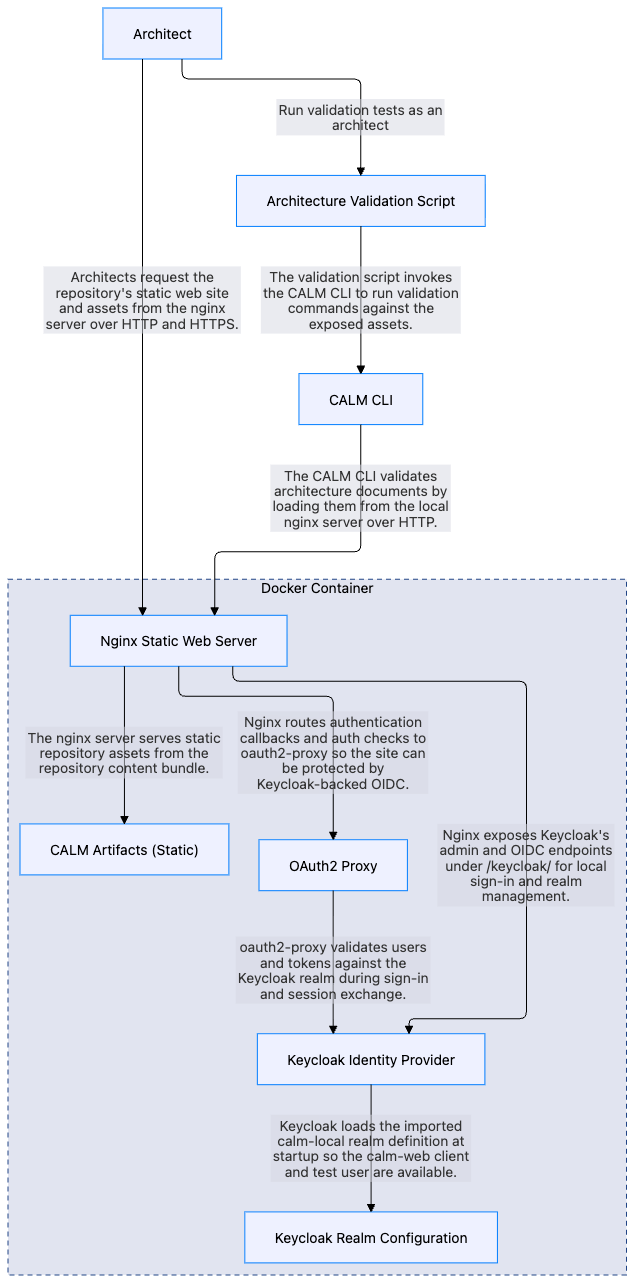
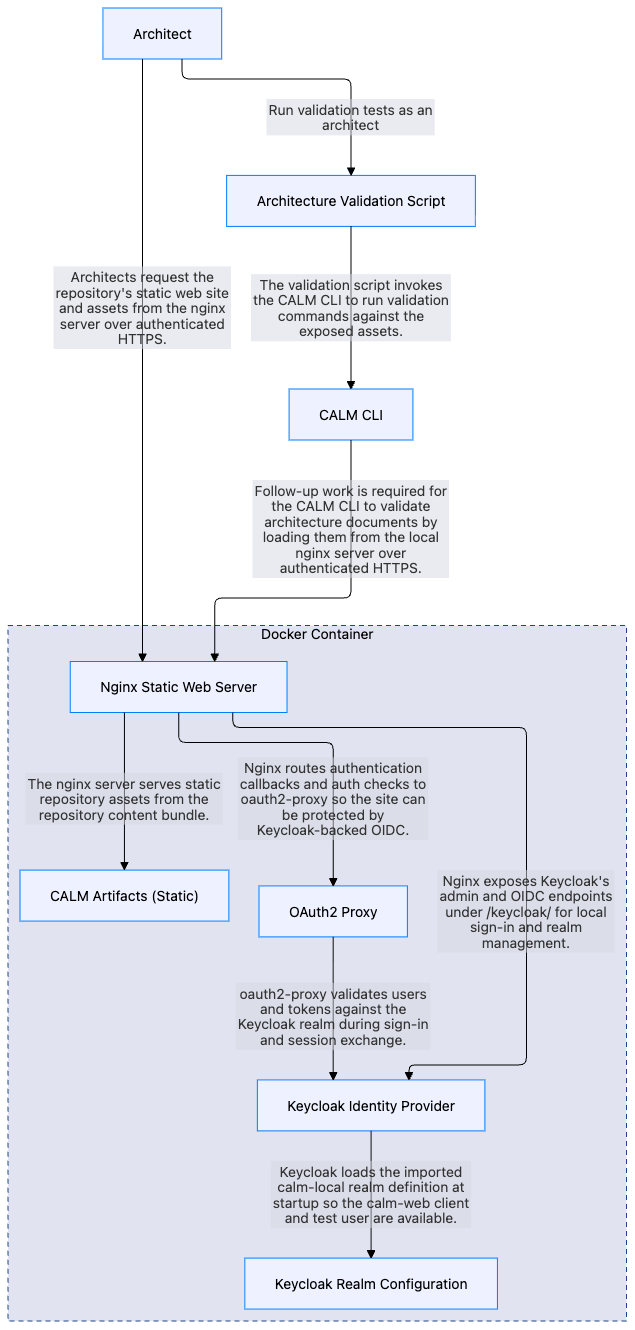
feat: make all access authenticated except for health check

diff --git a/docs/usage-notes.md b/docs/usage-notes.md
@@ -1,5 +1,7 @@
 ## Notes as of 2026-08-08
 
+These notes describe CALM CLI document-loading behavior and example validation outputs. Repository content is now served only through authenticated `https://localhost:8443`, and the checked-in validation script is pending a separate follow-up before it can run against the current auth-only stack. The URL examples below are normalized to the current HTTPS origin for documentation consistency.
+
 ## Test of validating architectures with `details.detailed-architecture` references, pattern/standards and controls
 
 ```
@@ -8,12 +10,12 @@ $ ./scripts/validate-architecture.sh
 
 
 Validating top level CALM architecture files with valid detailed architectures...NO ERRORS EXPECTED
-+ calm validate -a http://localhost:8080/architectures/calm-3.json
++ calm validate -a https://localhost:8443/architectures/calm-3.json
 (node:67439) [DEP0040] DeprecationWarning: The `punycode` module is deprecated. Please use a userland alternative instead.
 (Use `node --trace-deprecation ...` to show where the warning was created)
-info [calm-cli]:     Using CALMHub URL from config file: http://localhost:8080
+info [calm-cli]:     Using CALMHub URL from config file: https://localhost:8443
 info [calm-cli]:     Using allowed remote hosts from config file
-info [calmhub-document-loader]:     Configuring CALMHub document loader with base URL: http://localhost:8080
+info [calmhub-document-loader]:     Configuring CALMHub document loader with base URL: https://localhost:8443
 info [calm-validate]:     Formatting output as json
 {
     "jsonSchemaValidationOutputs": [],
@@ -24,12 +26,12 @@ info [calm-validate]:     Formatting output as json
 
 
 Valid detailed architecture file...NO ERRORS EXPECTED
-+ calm validate -a http://localhost:8080/architectures/calm-hub-detail.architecture.json
++ calm validate -a https://localhost:8443/architectures/calm-hub-detail.architecture.json
 (node:67440) [DEP0040] DeprecationWarning: The `punycode` module is deprecated. Please use a userland alternative instead.
 (Use `node --trace-deprecation ...` to show where the warning was created)
-info [calm-cli]:     Using CALMHub URL from config file: http://localhost:8080
+info [calm-cli]:     Using CALMHub URL from config file: https://localhost:8443
 info [calm-cli]:     Using allowed remote hosts from config file
-info [calmhub-document-loader]:     Configuring CALMHub document loader with base URL: http://localhost:8080
+info [calmhub-document-loader]:     Configuring CALMHub document loader with base URL: https://localhost:8443
 info [calm-validate]:     Formatting output as json
 {
     "jsonSchemaValidationOutputs": [],
@@ -41,12 +43,12 @@ info [calm-validate]:     Formatting output as json
 
 
 Valid top-level architecture that references a detailed architecture with an error in it. No Errors flagged
-+ calm validate -a http://localhost:8080/architectures/calm-3-ref-bad.json
++ calm validate -a https://localhost:8443/architectures/calm-3-ref-bad.json
 (node:67454) [DEP0040] DeprecationWarning: The `punycode` module is deprecated. Please use a userland alternative instead.
 (Use `node --trace-deprecation ...` to show where the warning was created)
-info [calm-cli]:     Using CALMHub URL from config file: http://localhost:8080
+info [calm-cli]:     Using CALMHub URL from config file: https://localhost:8443
 info [calm-cli]:     Using allowed remote hosts from config file
-info [calmhub-document-loader]:     Configuring CALMHub document loader with base URL: http://localhost:8080
+info [calmhub-document-loader]:     Configuring CALMHub document loader with base URL: https://localhost:8443
 info [calm-validate]:     Formatting output as json
 {
     "jsonSchemaValidationOutputs": [],
@@ -58,12 +60,12 @@ info [calm-validate]:     Formatting output as json
 
 
 Detailed architecture with an error in it. ERRORS EXPECTED
-+ calm validate -a http://localhost:8080/architectures/calm-hub-detail.architecture-bad.json
++ calm validate -a https://localhost:8443/architectures/calm-hub-detail.architecture-bad.json
 (node:67455) [DEP0040] DeprecationWarning: The `punycode` module is deprecated. Please use a userland alternative instead.
 (Use `node --trace-deprecation ...` to show where the warning was created)
-info [calm-cli]:     Using CALMHub URL from config file: http://localhost:8080
+info [calm-cli]:     Using CALMHub URL from config file: https://localhost:8443
 info [calm-cli]:     Using allowed remote hosts from config file
-info [calmhub-document-loader]:     Configuring CALMHub document loader with base URL: http://localhost:8080
+info [calmhub-document-loader]:     Configuring CALMHub document loader with base URL: https://localhost:8443
 info [calm-validate]:     Formatting output as json
 {
     "jsonSchemaValidationOutputs": [],
@@ -100,12 +102,12 @@ info [calm-validate]:     Formatting output as json
 
 
 Validate architecture against pattern/standards NO ERRORS EXPECTED
-+ calm validate -a http://localhost:8080/architectures/generated-webapp.json -p http://localhost:8080/patterns/company-base-pattern.json
++ calm validate -a https://localhost:8443/architectures/generated-webapp.json -p https://localhost:8443/patterns/company-base-pattern.json
 (node:67458) [DEP0040] DeprecationWarning: The `punycode` module is deprecated. Please use a userland alternative instead.
 (Use `node --trace-deprecation ...` to show where the warning was created)
-info [calm-cli]:     Using CALMHub URL from config file: http://localhost:8080
+info [calm-cli]:     Using CALMHub URL from config file: https://localhost:8443
 info [calm-cli]:     Using allowed remote hosts from config file
-info [calmhub-document-loader]:     Configuring CALMHub document loader with base URL: http://localhost:8080
+info [calmhub-document-loader]:     Configuring CALMHub document loader with base URL: https://localhost:8443
 info [calm-validate]:     Formatting output as json
 {
     "jsonSchemaValidationOutputs": [],
@@ -117,12 +119,12 @@ info [calm-validate]:     Formatting output as json
 
 
 Validate architecture with Controls.  NO ERRORS EXPECTED
-+ calm validate -a http://localhost:8080/architectures/ecommerce-platform.json
++ calm validate -a https://localhost:8443/architectures/ecommerce-platform.json
 (node:67459) [DEP0040] DeprecationWarning: The `punycode` module is deprecated. Please use a userland alternative instead.
 (Use `node --trace-deprecation ...` to show where the warning was created)
-info [calm-cli]:     Using CALMHub URL from config file: http://localhost:8080
+info [calm-cli]:     Using CALMHub URL from config file: https://localhost:8443
 info [calm-cli]:     Using allowed remote hosts from config file
-info [calmhub-document-loader]:     Configuring CALMHub document loader with base URL: http://localhost:8080
+info [calmhub-document-loader]:     Configuring CALMHub document loader with base URL: https://localhost:8443
 info [calm-validate]:     Formatting output as json
 {
     "jsonSchemaValidationOutputs": [],
@@ -131,7 +133,7 @@ info [calm-validate]:     Formatting output as json
     "hasWarnings": false
 ```
 
-## Web server capable commands (can fetch CALM docs over HTTP/HTTPS)
+## Web server capable commands (can fetch CALM docs over HTTPS)
 
 1. calm validate
 - Supports remote input for architecture, pattern, and timeline.
@@ -143,22 +145,22 @@ info [calm-validate]:     Formatting output as json
 - Remote-capable flag: --pattern.
 
 3. calm hub pull architecture
-- Fetches architecture documents from a CALM Hub server over HTTP.
+- Fetches architecture documents from a CALM Hub server over HTTPS.
 
 4. calm hub pull pattern
-- Fetches pattern documents from a CALM Hub server over HTTP.
+- Fetches pattern documents from a CALM Hub server over HTTPS.
 
 5. calm hub pull standard
-- Fetches standard documents from a CALM Hub server over HTTP.
+- Fetches standard documents from a CALM Hub server over HTTPS.
 
 6. calm hub pull control-requirement and control-configuration
-- Fetches control documents from CALM Hub over HTTP.
+- Fetches control documents from CALM Hub over HTTPS.
 
 7. calm hub list and calm hub create
-- Access CALM Hub over HTTP for listing/creating resources (not file-path inputs, but still server access).
+- Access CALM Hub over HTTPS for listing/creating resources (not file-path inputs, but still server access).
 
 8. calm workspace push, workspace check, workspace bump
-- These call CALM Hub over HTTP for comparison/publish workflows.
+- These call CALM Hub over HTTPS for comparison/publish workflows.
 
 ## Local-file-only commands (for CALM document file inputs)
 
@@ -180,6 +182,6 @@ info [calm-validate]:     Formatting output as json
 
 ## Quick rule of thumb
 
-1. If the command path uses the document loader path (notably validate and generate), it can use direct HTTP/HTTPS document URLs (subject to host allowlist).
+1. If the command path uses the document loader path (notably validate and generate), it can use direct HTTPS document URLs (subject to host allowlist and any required authentication support).
 2. If it is a templating/doc generation/diff/timeline file-processing command, it is local-file based.
-3. If it is under calm hub, it talks to CALM Hub server APIs over HTTP rather than reading local file URLs directly.
+3. If it is under calm hub, it talks to CALM Hub server APIs over HTTPS rather than reading local file URLs directly.

diff --git a/docs/control-validation-test-explanation.md b/docs/control-validation-test-explanation.md
@@ -2,17 +2,19 @@
 
 This document explains why `calm validate` succeeds for the first two nodes in [`architectures/control-test-architecture.json`](../static/architectures/control-test-architecture.json) and fails for the third node, and how the new pattern-based validation also catches the fourth node that omits its controls section.
 
+Repository assets are now served only through authenticated `https://localhost:8443`. The example URLs below use that HTTPS origin; auth-aware CLI execution is deferred to a later follow-up.
+
 ## `calm validate` output for validating the architecture
 
 ### Validation without the pattern
 
 ```
-$ calm validate -a http://localhost:8080/architectures/control-test-architecture.json 
+$ calm validate -a https://localhost:8443/architectures/control-test-architecture.json 
 (node:65626) [DEP0040] DeprecationWarning: The `punycode` module is deprecated. Please use a userland alternative instead.
 (Use `node --trace-deprecation ...` to show where the warning was created)
-info [calm-cli]:     Using CALMHub URL from config file: http://localhost:8080
+info [calm-cli]:     Using CALMHub URL from config file: https://localhost:8443
 info [calm-cli]:     Using allowed remote hosts from config file
-info [calmhub-document-loader]:     Configuring CALMHub document loader with base URL: http://localhost:8080
+info [calmhub-document-loader]:     Configuring CALMHub document loader with base URL: https://localhost:8443
 info [calm-validate]:     Formatting output as json
 {
     "jsonSchemaValidationOutputs": [
@@ -41,13 +43,12 @@ info [calm-validate]:     Formatting output as json
 ### Validation with the control pattern
 
 ```
-$ calm validate -a http://localhost:8080/architectures/control-test-architecture.json -p http
-://localhost:8080/patterns/company-control-pattern.json 
+$ calm validate -a https://localhost:8443/architectures/control-test-architecture.json -p https://localhost:8443/patterns/company-control-pattern.json 
 (node:4933) [DEP0040] DeprecationWarning: The `punycode` module is deprecated. Please use a userland alternative instead.
 (Use `node --trace-deprecation ...` to show where the warning was created)
-info [calm-cli]:     Using CALMHub URL from config file: http://localhost:8080
+info [calm-cli]:     Using CALMHub URL from config file: https://localhost:8443
 info [calm-cli]:     Using allowed remote hosts from config file
-info [calmhub-document-loader]:     Configuring CALMHub document loader with base URL: http://localhost:8080
+info [calmhub-document-loader]:     Configuring CALMHub document loader with base URL: https://localhost:8443
 info [calm-validate]:     Formatting output as json
 {
     "jsonSchemaValidationOutputs": [
@@ -126,7 +127,7 @@ The first node uses an inline control config:
 		"description": "Session protection requirement defined with inline configuration",
 		"requirements": [
 			{
-				"requirement-url": "http://localhost:8080/controls/session/schemas/session-protection.json",
+				"requirement-url": "https://localhost:8443/controls/session/schemas/session-protection.json",
 				"config": {
 					"protection-level": "medium",
 					"idle-timeout-minutes": 20,
@@ -154,15 +155,15 @@ The second node references an approved control config URL:
 		"description": "Session protection requirement loaded from the shared config file",
 		"requirements": [
 			{
-				"requirement-url": "http://localhost:8080/controls/session/schemas/session-protection.json",
-				"config-url": "http://localhost:8080/controls/session/configs/session-config.json"
+				"requirement-url": "https://localhost:8443/controls/session/schemas/session-protection.json",
+				"config-url": "https://localhost:8443/controls/session/configs/session-config.json"
 			}
 		]
 	}
 }
 ```
 
-- [`config-url: http://localhost:8080/controls/session/configs/session-config.json`](../static/controls/session/configs/session-config.json)
+- [`config-url: https://localhost:8443/controls/session/configs/session-config.json`](../static/controls/session/configs/session-config.json)
 
 That config file contains valid values:
 
@@ -182,7 +183,7 @@ The third node uses an inline control config that violates the schema:
 		"description": "Session protection requirement loaded from the bad shared config file",
 		"requirements": [
 			{
-				"requirement-url": "http://localhost:8080/controls/session/schemas/session-protection.json",
+				"requirement-url": "https://localhost:8443/controls/session/schemas/session-protection.json",
 				"config": {
 					"protection-level": "extreme",
 					"idle-timeout-minutes": 0,

diff --git a/README.md b/README.md
@@ -1,6 +1,6 @@
 # CALM Artifact Access Testbed
 
-Repository for serving FINOS CALM JSON content with Nginx, plus Python and TypeScript application scaffolds for future API and UI work. Local development now supports both anonymous HTTP access for CLI validation workflows and authenticated HTTPS access backed by Keycloak.
+Repository for serving FINOS CALM JSON content with Nginx, plus Python and TypeScript application scaffolds for future API and UI work. Local development serves repository content only over authenticated HTTPS backed by Keycloak, with an anonymous HTTPS health check for operational use.
 
 ## Testbed CALM Architecture
 [CALM Architecture JSON](docs/architecture/web-repo-architecture.json)
@@ -46,29 +46,29 @@ Repository for serving FINOS CALM JSON content with Nginx, plus Python and TypeS
 - `docker-compose config` validates Compose configuration.
 - `make test-api` validates Python API behavior.
 - `make typecheck-web` validates TypeScript types.
-- `./scripts/validate-architecture.sh` runs CALM validation checks for detailed architecture references.
+- `./scripts/validate-architecture.sh` is intentionally unchanged in this repo revision and still needs a follow-up update before it matches the authenticated HTTPS-only stack.
 
 ## Control Authoring Note
 
-- In `static/architectures/ecommerce-platform.json`, control `requirement-url` values point to assets served from `http://localhost:8080/controls/...`.
+- In `static/architectures/ecommerce-platform.json`, control `requirement-url` values point to assets served from `https://localhost:8443/controls/...`.
 - Control configuration is intentionally inlined with `config` for architecture requirements in this repo.
 - Keep control configs in `static/controls/**/configs/*.json` as reusable source artifacts, but copy values inline when updating architecture control requirements. At present there appears to be a false-positive error when the config-url is used.
 
 ## Static Content
 
-Static content remains anonymously available on the HTTP endpoint for CALM CLI validation and backward-compatible local workflows.
+Static content is available only through the authenticated HTTPS endpoint. The only anonymous endpoint exposed by the web server is `/healthz`.
 
-Sample anonymous URLs after `make start-web-server`:
-
-- `http://localhost:8080/architectures/calm-1.json`
-- `http://localhost:8080/patterns/company-base-pattern.json`
-- `http://localhost:8080/standards/company-node-standard.json`
-- `http://localhost:8080/controls/security/schemas/tls-encryption.json`
-
-The primary browser-facing endpoint is authenticated HTTPS:
+Sample authenticated URLs after `make start-web-server`:
 
 - `https://localhost:8443/`
 - `https://localhost:8443/architectures/calm-1.json`
+- `https://localhost:8443/patterns/company-base-pattern.json`
+- `https://localhost:8443/standards/company-node-standard.json`
+- `https://localhost:8443/controls/security/schemas/tls-encryption.json`
+
+Anonymous health check:
+
+- `https://localhost:8443/healthz`
 
 The Keycloak admin console uses the same HTTPS origin:
 
@@ -111,6 +111,7 @@ make start-web-server
 - create a local self-signed certificate under `infra/nginx/certs/` if one is missing
 - render a local Keycloak realm import into `infra/keycloak/import/`
 - start `keycloak`, `oauth2-proxy`, and `nginx`
+- serve repository content only through authenticated HTTPS
 - serve the Keycloak admin console through the HTTPS Keycloak path
 
 If you need a cookie secret, generate one with:

diff --git a/docs/validate-architecture-script.md b/docs/validate-architecture-script.md
@@ -1,10 +1,10 @@
 # validate-architecture.sh
 
-`scripts/validate-architecture.sh` runs a fixed set of CALM CLI validation commands against the JSON documents served by the local static web server.
+`scripts/validate-architecture.sh` is retained as a legacy validation helper and still contains the pre-auth remote URL commands. This document describes what the script checks and records that a follow-up change is required before it will match the current authenticated HTTPS-only stack.
 
 ## Purpose
 
-Use this script to quickly verify that the sample architecture assets in this repository behave as expected when loaded over anonymous HTTP from `http://localhost:8080`.
+Use this document to understand the intended validation coverage of the retained script. The script itself is intentionally unchanged in this repo revision and still targets legacy unauthenticated URLs.
 
 The script covers these scenarios:
 
@@ -17,7 +17,7 @@ The script covers these scenarios:
 
 ## Prerequisites
 
-- The local web stack must be running and serving the anonymous compatibility endpoint on `http://localhost:8080`.
+- The local web stack now serves repository content over authenticated `https://localhost:8443`.
 - The `calm` CLI must be installed and available on `PATH`.
 - The repository's static assets must be available under the expected paths such as `/architectures` and `/patterns`.
 
@@ -27,17 +27,17 @@ Start the local static server with:
 make start-web-server
 ```
 
-The script intentionally uses the anonymous HTTP endpoint rather than the authenticated HTTPS endpoint so that CALM CLI validation does not need to log in through Keycloak.
+The script still uses legacy unauthenticated URLs and is pending a separate auth-aware update. Do not treat it as the supported validation path for the current HTTPS-only stack.
 
 ## Run
 
-From the repository root:
+The current script command remains:
 
 ```sh
 ./scripts/validate-architecture.sh
 ```
 
-The script uses `set -x`, so each `calm validate` command is echoed before it runs.
+The script uses `set -x`, so each `calm validate` command is echoed before it runs. Those commands still reference the removed anonymous HTTP endpoint until a later follow-up change updates the workflow.
 
 ## Checks Performed
 
@@ -61,6 +61,6 @@ Expected result: no errors.
 
 ## Notes
 
-- This script validates documents over HTTP, not by local file path.
+- This script still validates documents over legacy remote URLs, not by local file path.
 - The behavior around referenced detailed architectures is documented intentionally because it captures a current validation gap.
 - Related command output examples and CLI notes are recorded in `docs/usage-notes.md`.
